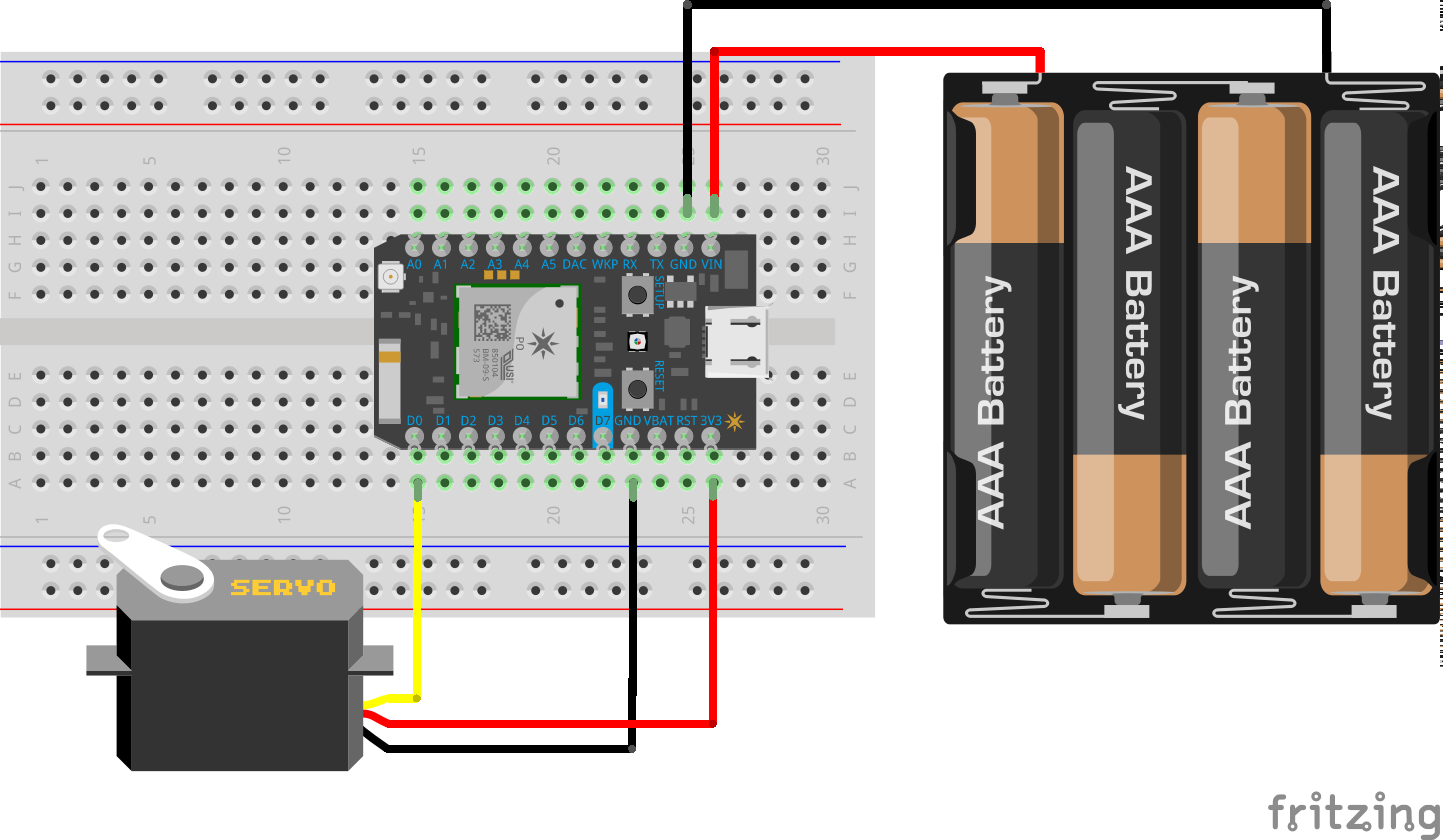
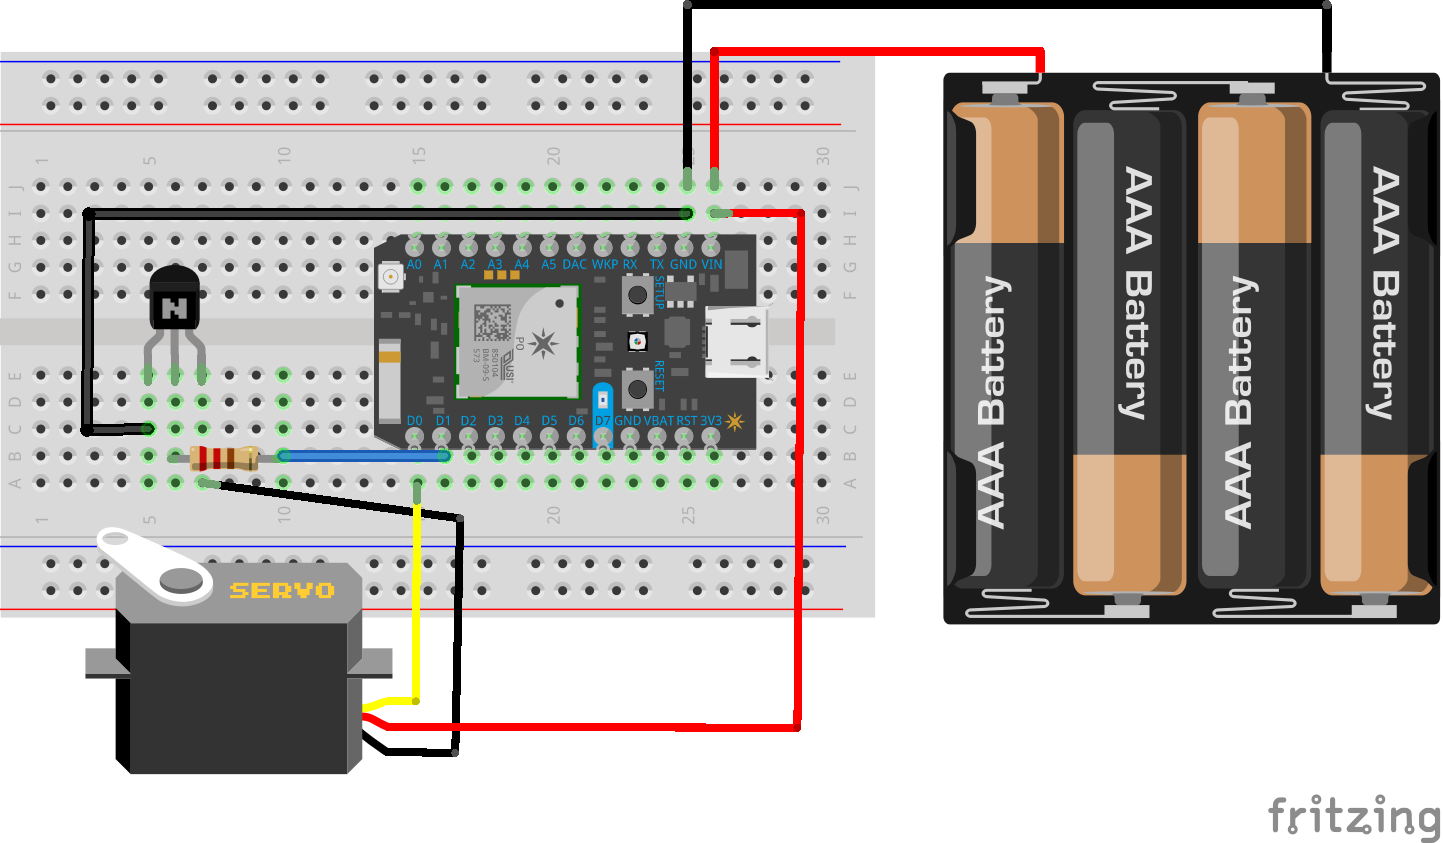
Add NPN low-side switch to disconnect servo

diff --git a/firmware/pointer.cpp b/firmware/pointer.cpp
@@ -2,8 +2,8 @@
 #include "pointer.h"
 #include <algorithm>
 
-Pointer::Pointer(int pin)
-  : pin(pin), timer(*this) {
+Pointer::Pointer(int pwmPin, int powerPin)
+  : pwmPin(pwmPin), powerPin(powerPin), timer(*this) {
 }
 
 void Pointer::moveToAngle(int angle) {
@@ -32,7 +32,7 @@ void Pointer::setInitialAngle(int angle) {
 }
 
 void Pointer::startServo() {
-  servo.attach(pin);
+  servo.attach(pwmPin);
   moving = true;
 }
 
@@ -45,6 +45,9 @@ void Pointer::updateServo() {
 
   updatePositionActual();
   servo.write(positionActual);
+
+  pinMode(powerPin, OUTPUT);
+  digitalWrite(powerPin, HIGH);
 }
 
 void Pointer::updatePositionActual() {
@@ -53,6 +56,7 @@ void Pointer::updatePositionActual() {
 }
 
 void Pointer::stopServo() {
+  pinMode(powerPin, INPUT);
   servo.detach();
   moving = false;
 }

diff --git a/firmware/pointer.h b/firmware/pointer.h
@@ -12,7 +12,7 @@ class PointerObserver {
 
 class Pointer : public AngleMovable {
   public:
-    Pointer(int pin);
+    Pointer(int pwmPin, int powerPin);
     void moveToAngle(int angle);
     bool isMoving();
     void setInitialAngle(int angle);
@@ -27,7 +27,8 @@ class Pointer : public AngleMovable {
     void notifyObservers();
 
     static const int RATE = 1;
-    int pin;
+    int pwmPin;
+    int powerPin;
     bool moving;
     int positionActual;
     int positionDesired;

diff --git a/firmware/weather_clock.cpp b/firmware/weather_clock.cpp
@@ -7,9 +7,12 @@
 
 SYSTEM_THREAD(ENABLED);
 
+// For setting the SoftAP SSID:
+// System.set(SYSTEM_CONFIG_SOFTAP_PREFIX, "ClothesClock");
+
 void goToSleep();
 
-Pointer pointer(D0);
+Pointer pointer(D0, D1);
 WeatherPointer weatherPointer(pointer);
 Persistence persistence;
 PointerPersistence pointerPersistence(pointer, persistence);
